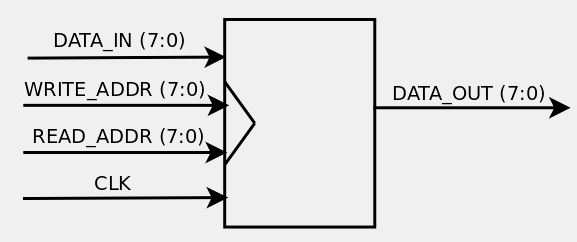
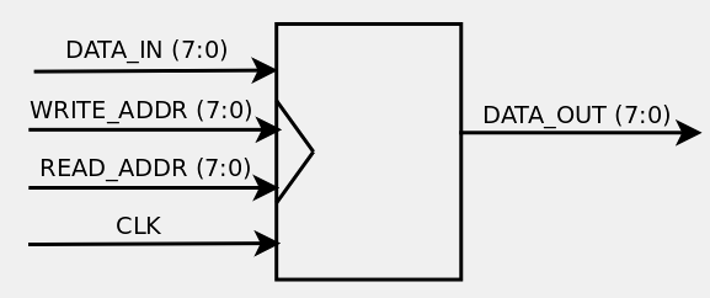
Image clean-up.

diff --git a/content/rc4-hardware-implementation/notes.rst b/content/rc4-hardware-implementation/notes.rst
@@ -1,0 +1,47 @@
+It is one of the most widely used stream cipher and has been integrated
+into a lot of protocols or applications like:
+* TLS/SSL
+* WEP
+* Remote Desktop Protocol
+* SSH
+* BitTorrent
+* Skype
+
+Like all stream ciphers, it encrypts the information bit by bit as it
+comes in and has a low complexity making it ideal to implement it in
+hardware.
+
+SOMETHING ABOUT THE PHASES!
+
+----
+
+The idea is really simple, we begin by reading the key from one of the
+ports of the chip and start initializing the internal state (go through
+KSA)
+
+When the chip has finished the KSA phase and is ready to encode data it
+will set the logic level of the READY pin to 1.
+
+We can now input data using the DATA_IN port and the chip will XOR it
+with the internal key stream and output it via the DATA_OUT port.
+
+----
+
+I'm gonna present now some of the building blocks used for the chip, 
+I'll start with the accumulator.
+
+It is used to add a value to a previo
+
+When it will overflow (ex: if 8 bit, when reaching 255) the CARRY pin
+will be pulled high, on the next clock cycle the internal value will be
+reseted to 0 and the CARRY pin will be pulled low again.
+
+----
+
+
+
+start with the flip-flop.
+
+It is used to store one bit of information.
+
+Based on the use of random permutation.

diff --git a/content/rc4-hardware-implementation/index.rst b/content/rc4-hardware-implementation/index.rst
@@ -22,21 +22,18 @@ Schematics overview
 ===================
 
 .. figure:: img/rc4-chip-schematics.png
-    :align: center
-    :width: 60%
 
 ----
 
-The counter
+Accumulator
 ===========
 
-.. figure:: img/counter.png
-    :width: 70%
+.. figure:: img/accumulator.png
 
 ----
 
-Flip-flops
-==========
+Flip-flop
+=========
 
 .. figure:: img/d-flip-flop.png
 
